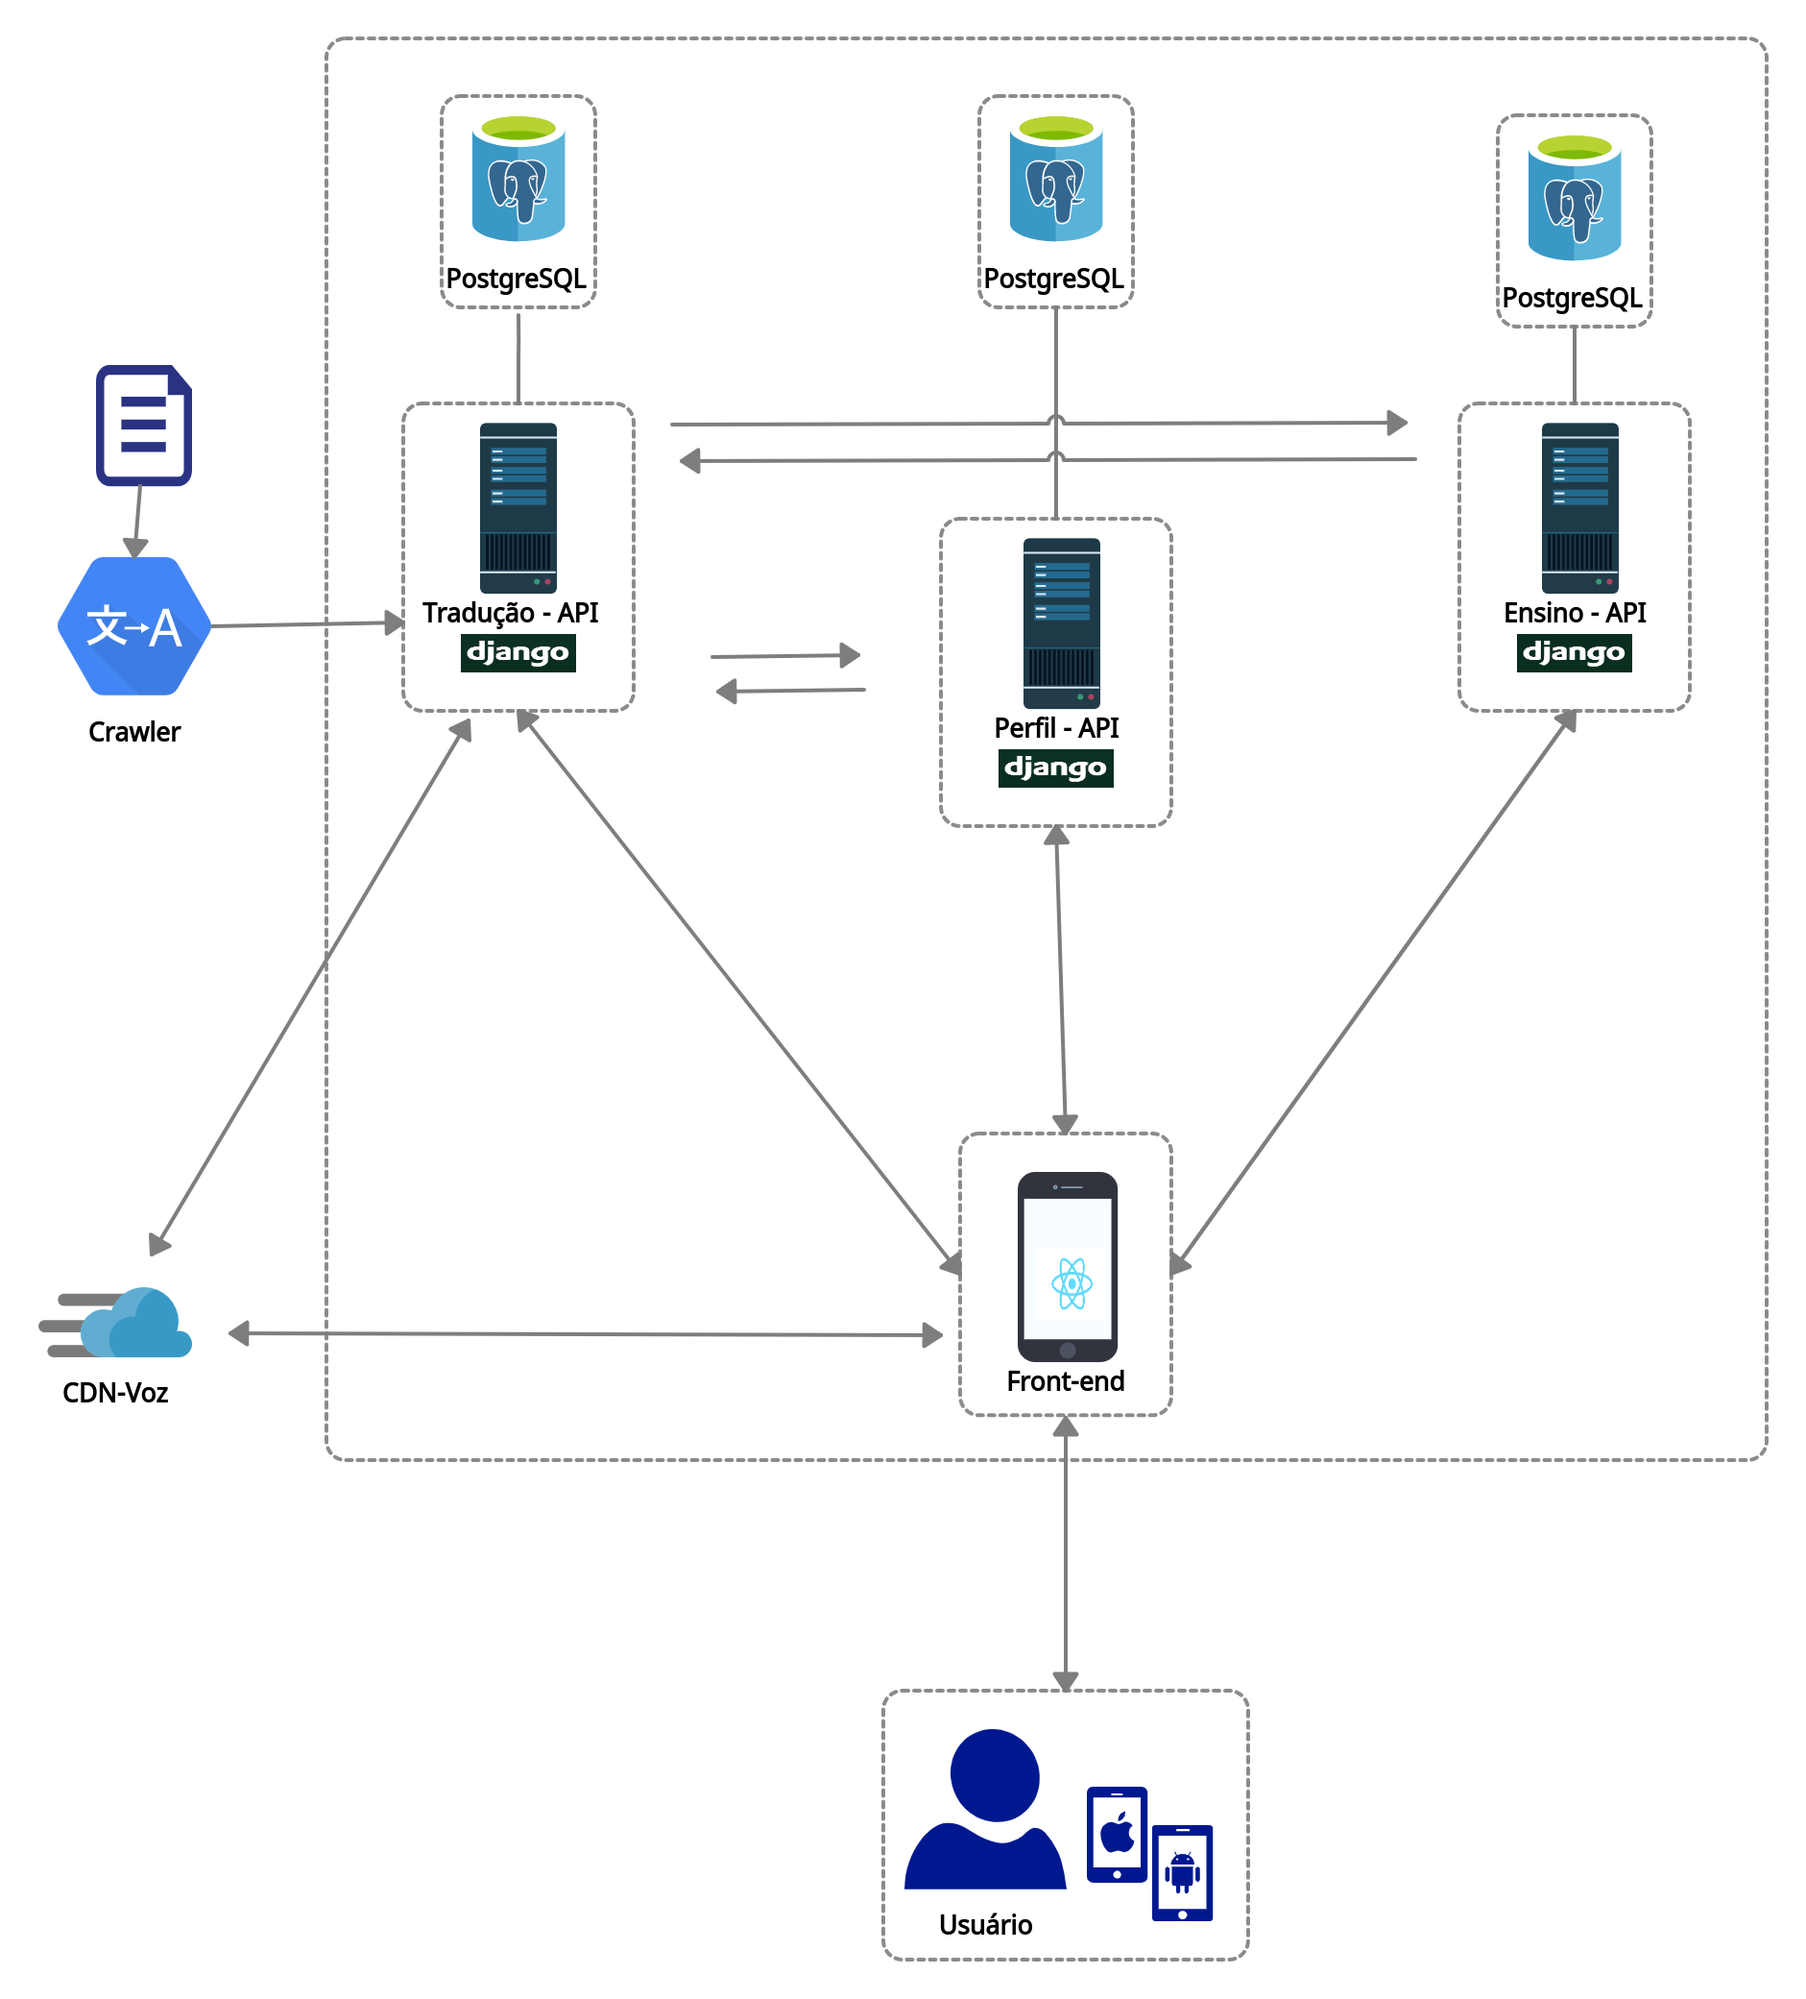
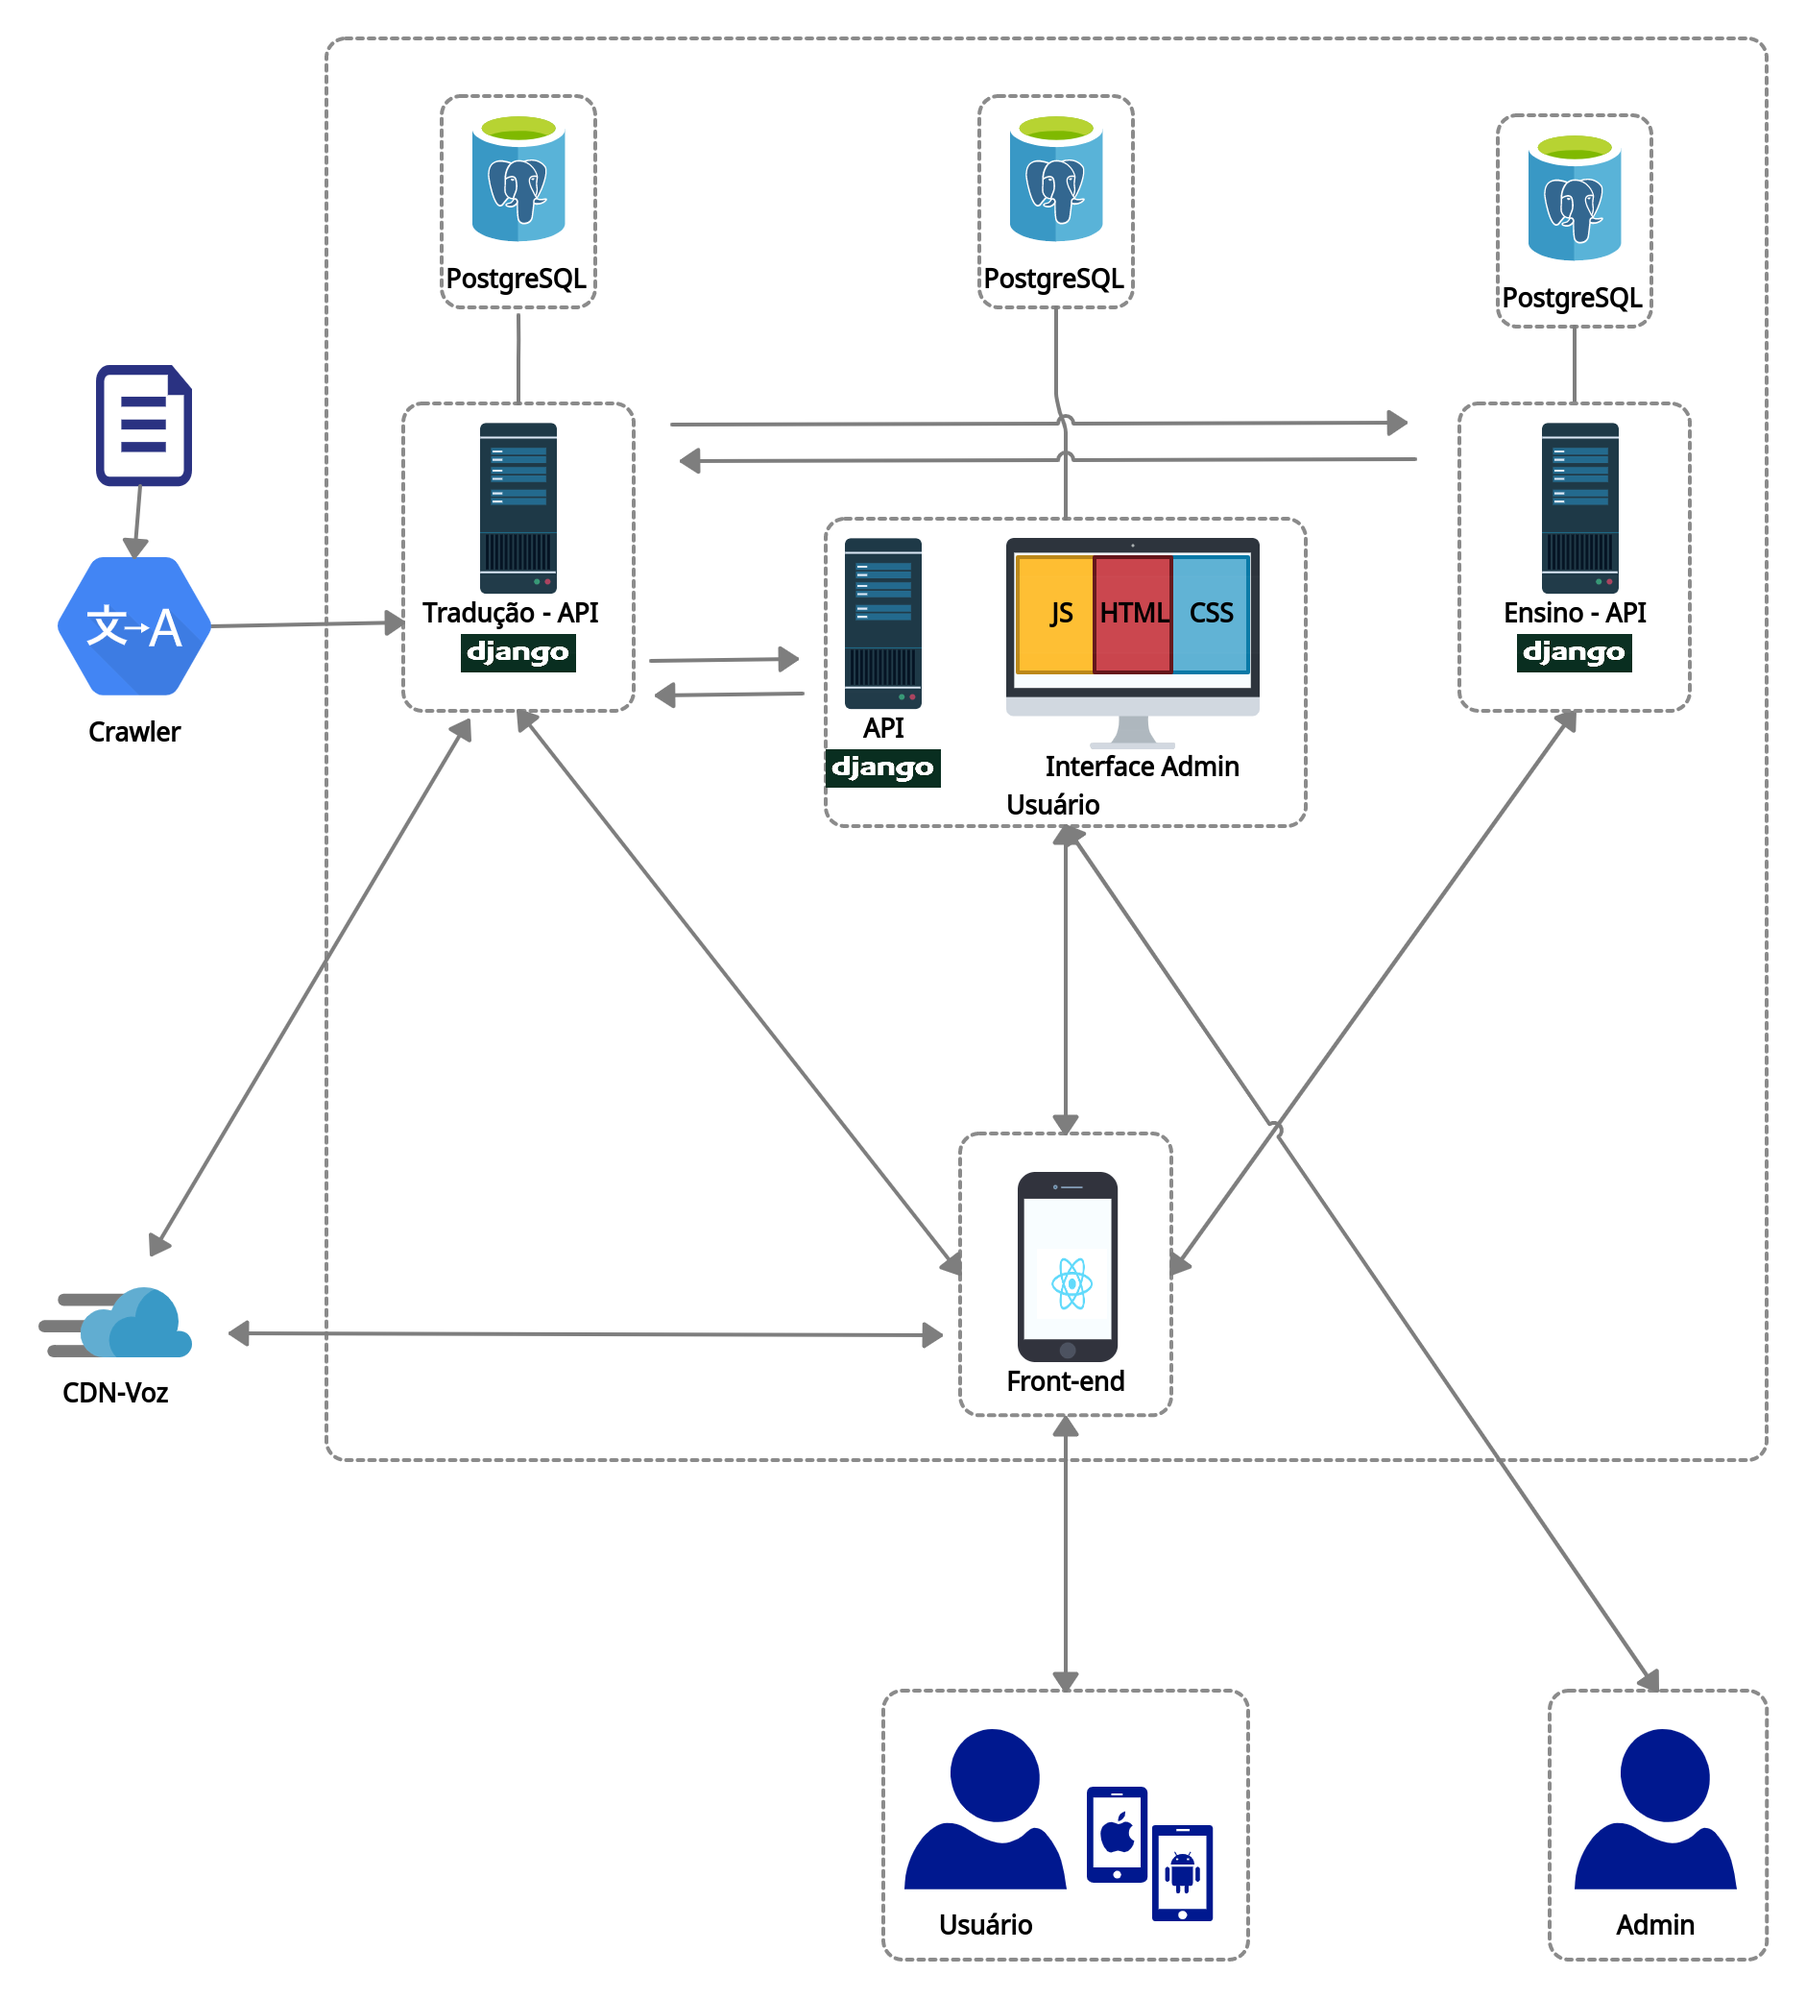
Update architecture diagram

diff --git a/docs/project/architecture-document.md b/docs/project/architecture-document.md
@@ -13,6 +13,7 @@
 | 08/03/2021 | [Lieverton Silva](https://github.com/lievertom) | adiciona tabela de metas e restrições de arquitetura | 0.7 |
 | 23/03/2021 | [Lieverton Silva](https://github.com/lievertom) | adiciona diagramas de pacote | 1.0 |
 | 23/05/2021 | [Lieverton Silva](https://github.com/lievertom) | atualiza nome da aplicação | 1.1 |
+| 23/05/2021 | [Lieverton Silva](https://github.com/lievertom) | atualiza representação arquitetural | 1.2 |
 
 
 ## 1. Introdução
@@ -46,13 +47,17 @@ A solução arquitetural implementada para aplicação "Kokama Kinkin" pode ser 
 
 ![Diagrama Macro de Arquitetura](../assets/img/architecture/architecture_diagram.png)
 
-### 2.1 APIs
+### 2.1 Tradução
 
-**Módulo de tradução:** módulo da aplicação responsável por prover os recursos necessários para guardar e disponibilizar as informações que possibilitam a tradução da língua Kokama.
+Módulo da aplicação responsável por prover os recursos necessários para guardar e disponibilizar as informações que possibilitam a tradução da língua Kokama.
 
-**Módulo de ensino:** módulo da aplicação responsável por prover os recursos necessários para guardar e disponibilizar as informações sobre os exercícios e a cultura kokama.
+### 2.2 Ensino
 
-**Módulo de perfil:** módulo responsável por prover os recursos necessários para guardar e sincronizar as informações do usuário e do seu histórico de uso da aplicação.
+Módulo da aplicação responsável por prover os recursos necessários para guardar e disponibilizar as informações sobre os exercícios e a cultura Kokama.
+
+### 2.3 Usuário
+
+Módulo responsável por prover os recursos necessários para guardar e sincronizar as informações do usuário e do seu histórico de uso da aplicação. Também contém uma interface de acesso exclusivo aos administradores do sistema para gerenciar os dados disponíveis nos módulos de Tradução e de Ensino.
 
 ### 2.2 Front-end
 
